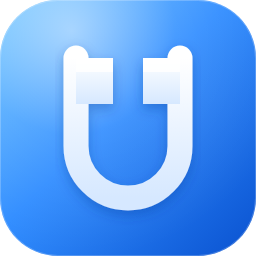
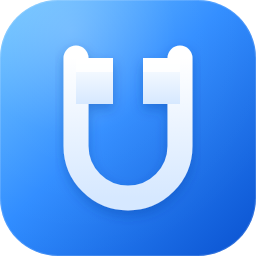
feat: 下载器可选 qbt socket/WebUI，本地下载器设置移至追剧下方
- 新增下载器类型、WebUI 地址/账号/密码、socket 路径配置
- 本地下载器设置移动到追剧任务下方
- 图标降低左上角高光亮度

Changed region(s): [[0.0312, 0.0, 0.6562, 0.4062], [0.0, 0.2188, 0.0312, 0.2812]]

diff --git a/web/src/components/SettingsModals.jsx b/web/src/components/SettingsModals.jsx
@@ -14,6 +14,7 @@ export function SettingsModal(props) {
     pansouUrl, setPansouUrl, bitmagnetUrl, setBitmagnetUrl, outboundProxy, setOutboundProxy,
     maxEpisodes, setMaxEpisodes, taskTimeout, setTaskTimeout, waitTimeout, setWaitTimeout, drivembyEnabled, setDrivembyEnabled,
     localSavePath, setLocalSavePath, localMoveEnabled, setLocalMoveEnabled, localDonePath, setLocalDonePath,
+    localClient, setLocalClient, localQbtUrl, setLocalQbtUrl, localQbtUser, setLocalQbtUser, localQbtPassword, setLocalQbtPassword, localQbtSock, setLocalQbtSock,
     autoForm, setAutoForm, auto, traktToken, setTraktToken, revealTrakt,
     startTraktOauth, traktOauthError,
     aiPresets, newAiPreset, editAiPreset, deleteAiPreset,
@@ -25,16 +26,6 @@ export function SettingsModal(props) {
         <Form.Item label="主题">
           <Segmented value={mode || 'auto'} onChange={setMode}
             options={[{ label: '跟随系统', value: 'auto' }, { label: '亮色', value: 'light' }, { label: '暗色', value: 'dark' }]} />
-        </Form.Item>
-        <Divider orientation="left" style={{ margin: '0 0 12px' }}>本地下载器</Divider>
-        <Form.Item label="保存目录">
-          <Input value={localSavePath} onChange={e => setLocalSavePath(e.target.value)} placeholder="/vol1/1000/Downloads" />
-        </Form.Item>
-        <Form.Item label="完成后移动到目标目录">
-          <Switch checked={localMoveEnabled} onChange={setLocalMoveEnabled} />
-        </Form.Item>
-        <Form.Item label="移动目标目录">
-          <Input value={localDonePath} onChange={e => setLocalDonePath(e.target.value)} disabled={!localMoveEnabled} placeholder="/vol1/1000/Downloads/Done" />
         </Form.Item>
         <Divider orientation="left" style={{ margin: '0 0 12px' }}>115 账号</Divider>
         <Form.Item label="115 Cookie">
@@ -112,6 +103,31 @@ export function SettingsModal(props) {
         </Form.Item>
         <Form.Item label="转存完成后自动触发 Drivemby 刷新">
           <Switch checked={drivembyEnabled} onChange={setDrivembyEnabled} />
+        </Form.Item>
+        <Divider orientation="left" style={{ margin: '4px 0 12px' }}>本地下载器</Divider>
+        <Form.Item label="使用哪个下载器">
+          <Select value={localClient} onChange={setLocalClient} options={[
+            { value: 'qbt_local', label: 'fnOS 下载中心（qBittorrent unix socket）' },
+            { value: 'qbt_webui', label: 'qBittorrent WebUI（TCP）' },
+          ]} />
+        </Form.Item>
+        {localClient === 'qbt_webui' ? (
+          <>
+            <Form.Item label="WebUI 地址"><Input value={localQbtUrl} onChange={e => setLocalQbtUrl(e.target.value)} placeholder="http://127.0.0.1:8080" /></Form.Item>
+            <Form.Item label="用户名"><Input value={localQbtUser} onChange={e => setLocalQbtUser(e.target.value)} /></Form.Item>
+            <Form.Item label="密码"><Input.Password value={localQbtPassword} onChange={e => setLocalQbtPassword(e.target.value)} placeholder="qBittorrent WebUI 密码" /></Form.Item>
+          </>
+        ) : (
+          <Form.Item label="qBittorrent socket 路径"><Input value={localQbtSock} onChange={e => setLocalQbtSock(e.target.value)} placeholder="/run/qbt.sock" /></Form.Item>
+        )}
+        <Form.Item label="保存目录">
+          <Input value={localSavePath} onChange={e => setLocalSavePath(e.target.value)} placeholder="/vol1/1000/Downloads" />
+        </Form.Item>
+        <Form.Item label="完成后移动到目标目录">
+          <Switch checked={localMoveEnabled} onChange={setLocalMoveEnabled} />
+        </Form.Item>
+        <Form.Item label="移动目标目录">
+          <Input value={localDonePath} onChange={e => setLocalDonePath(e.target.value)} disabled={!localMoveEnabled} placeholder="/vol1/1000/Downloads/Done" />
         </Form.Item>
 
         <Divider orientation="left" style={{ margin: '4px 0 12px' }}>Trakt 凭据</Divider>

diff --git a/web/src/App.jsx b/web/src/App.jsx
@@ -131,6 +131,11 @@ export default function App({ mode, setMode, dark }) {
   const [localSavePath, setLocalSavePath] = useState('/vol1/1000/Downloads');
   const [localMoveEnabled, setLocalMoveEnabled] = useState(true);
   const [localDonePath, setLocalDonePath] = useState('/vol1/1000/Downloads/Done');
+  const [localClient, setLocalClient] = useState('qbt_local');
+  const [localQbtUrl, setLocalQbtUrl] = useState('http://127.0.0.1:8080');
+  const [localQbtUser, setLocalQbtUser] = useState('admin');
+  const [localQbtPassword, setLocalQbtPassword] = useState('');
+  const [localQbtSock, setLocalQbtSock] = useState('/run/qbt.sock');
   const [accUser, setAccUser] = useState('');
   const [accOld, setAccOld] = useState('');
   const [accNew, setAccNew] = useState('');
@@ -440,7 +445,12 @@ export default function App({ mode, setMode, dark }) {
     if (cfg.local_save_path !== undefined) setLocalSavePath(cfg.local_save_path || '');
     setLocalMoveEnabled(cfg.local_move_enabled !== false);
     if (cfg.local_done_path !== undefined) setLocalDonePath(cfg.local_done_path || '');
-  }, [cfg?.local_save_path, cfg?.local_move_enabled, cfg?.local_done_path]);
+    if (cfg.local_client) setLocalClient(cfg.local_client);
+    if (cfg.local_qbt_url !== undefined) setLocalQbtUrl(cfg.local_qbt_url || '');
+    if (cfg.local_qbt_user !== undefined) setLocalQbtUser(cfg.local_qbt_user || '');
+    if (cfg.local_qbt_password !== undefined) setLocalQbtPassword(cfg.local_qbt_password || '');
+    if (cfg.local_qbt_sock !== undefined) setLocalQbtSock(cfg.local_qbt_sock || '');
+  }, [cfg?.local_save_path, cfg?.local_move_enabled, cfg?.local_done_path, cfg?.local_client, cfg?.local_qbt_url, cfg?.local_qbt_user, cfg?.local_qbt_password, cfg?.local_qbt_sock]);
 
   // ---- settings helpers ----
   const openSettings = () => {
@@ -462,6 +472,11 @@ export default function App({ mode, setMode, dark }) {
       local_save_path: localSavePath,
       local_move_enabled: localMoveEnabled,
       local_done_path: localDonePath,
+      local_client: localClient,
+      local_qbt_url: localQbtUrl,
+      local_qbt_user: localQbtUser,
+      local_qbt_password: localQbtPassword,
+      local_qbt_sock: localQbtSock,
     };
     if (tmdbText) body.tmdb_api_key = tmdbText;
     if (cookieText) body.p115_cookie = cookieText;
@@ -640,6 +655,11 @@ export default function App({ mode, setMode, dark }) {
               localSavePath={localSavePath} setLocalSavePath={setLocalSavePath}
               localMoveEnabled={localMoveEnabled} setLocalMoveEnabled={setLocalMoveEnabled}
               localDonePath={localDonePath} setLocalDonePath={setLocalDonePath}
+              localClient={localClient} setLocalClient={setLocalClient}
+              localQbtUrl={localQbtUrl} setLocalQbtUrl={setLocalQbtUrl}
+              localQbtUser={localQbtUser} setLocalQbtUser={setLocalQbtUser}
+              localQbtPassword={localQbtPassword} setLocalQbtPassword={setLocalQbtPassword}
+              localQbtSock={localQbtSock} setLocalQbtSock={setLocalQbtSock}
             /></Suspense>
           </div>
         ) : null}
@@ -706,6 +726,11 @@ export default function App({ mode, setMode, dark }) {
           localSavePath={localSavePath} setLocalSavePath={setLocalSavePath}
           localMoveEnabled={localMoveEnabled} setLocalMoveEnabled={setLocalMoveEnabled}
           localDonePath={localDonePath} setLocalDonePath={setLocalDonePath}
+          localClient={localClient} setLocalClient={setLocalClient}
+          localQbtUrl={localQbtUrl} setLocalQbtUrl={setLocalQbtUrl}
+          localQbtUser={localQbtUser} setLocalQbtUser={setLocalQbtUser}
+          localQbtPassword={localQbtPassword} setLocalQbtPassword={setLocalQbtPassword}
+          localQbtSock={localQbtSock} setLocalQbtSock={setLocalQbtSock}
         />
         </Suspense>
       ) : null}

diff --git a/routes.py b/routes.py
@@ -275,7 +275,7 @@ def set_config():
     _merge_secret_list("auto_presets", ("ai_api_key", "trakt_token"))
 
     for k in ("pansou_url", "bitmagnet_url", "outbound_proxy", "p115_target_cid", "p115_transfer_cid",
-              "auto_enabled", "auto_interval", "auto_days", "auto_max_episodes", "auto_strict_match", "auto_task_timeout", "auto_wait_timeout", "auto_use_local", "local_save_path", "local_move_enabled", "local_done_path", "auto_presets", "auto_tv_preset", "auto_movie_preset", "ai_presets", "calendar_source", "auto_shows", "auto_res_order", "auto_rank_order", "auto_seed_tiers", "auto_size_big", "auto_source_order",
+              "auto_enabled", "auto_interval", "auto_days", "auto_max_episodes", "auto_strict_match", "auto_task_timeout", "auto_wait_timeout", "auto_use_local", "local_client", "local_qbt_url", "local_qbt_user", "local_qbt_password", "local_qbt_sock", "local_save_path", "local_move_enabled", "local_done_path", "auto_presets", "auto_tv_preset", "auto_movie_preset", "ai_presets", "calendar_source", "auto_shows", "auto_res_order", "auto_rank_order", "auto_seed_tiers", "auto_size_big", "auto_source_order",
               "auto_max_size_gb", "auto_min_seeders", "auto_codec", "auto_dry_run",
               "ai_enabled", "ai_base_url", "ai_model", "trakt_client_id",
               "tmdb_api_key", "monitor_enabled", "monitor_interval", "monitor_cid",
@@ -503,7 +503,7 @@ def api_ai_test():
 def api_auto_status():
     cfg = load_config()
     pub = {k: cfg.get(k) for k in ("auto_enabled", "auto_interval", "auto_days", "auto_max_episodes",
-                                   "auto_strict_match", "auto_task_timeout", "auto_wait_timeout", "auto_use_local", "local_save_path", "local_move_enabled", "local_done_path", "auto_presets", "auto_tv_preset", "auto_movie_preset",
+                                   "auto_strict_match", "auto_task_timeout", "auto_wait_timeout", "auto_use_local", "local_client", "local_qbt_url", "local_qbt_user", "local_qbt_password", "local_qbt_sock", "local_save_path", "local_move_enabled", "local_done_path", "auto_presets", "auto_tv_preset", "auto_movie_preset",
                                    "ai_presets", "calendar_source", "auto_shows", "auto_res_order",
                                    "auto_max_size_gb", "auto_min_seeders", "auto_codec",
                                    "auto_dry_run", "ai_enabled", "ai_base_url", "ai_model", "trakt_client_id", "drivemby_enabled", "auto_rank_order", "auto_seed_tiers", "auto_size_big", "auto_source_order")}

diff --git a/tracker.py b/tracker.py
@@ -14,18 +14,16 @@ from localtorrent import has_progress, is_completed
 _LOCAL = {"client": None}
 
 
-def _local_client():
-    if _LOCAL["client"] is None:
-        try:
-            c = localtorrent.LocalQbt()
-            _LOCAL["client"] = c if c.login() else False
-        except Exception:
-            _LOCAL["client"] = False
-    return _LOCAL["client"] or None
+def _local_client(cfg=None):
+    try:
+        c = localtorrent.LocalQbt(cfg)
+        return c if c.login() else None
+    except Exception:
+        return None
 
 
-def _local_del(h):
-    c = _local_client()
+def _local_del(h, cfg=None):
+    c = _local_client(cfg)
     if c and h:
         try:
             c.delete([h])
@@ -701,7 +699,7 @@ def _process_episode(cfg, ep, eff, dry_run, excluded, timeout_min):
         return "fail"
     local_hash = None
     if eff.get("auto_use_local"):
-        lc = _local_client()
+        lc = _local_client(cfg)
         if not lc:
             log(f"[auto] {_label(ep)} 本地下载器未就绪，仅使用 115")
         else:
@@ -737,7 +735,7 @@ def _process_episode(cfg, ep, eff, dry_run, excluded, timeout_min):
             _STATE["pending"].pop(ep["key"], None)
             _save()
         log(f"[auto] {_label(ep)} 云下载完成（已确认）: {desc}")
-        _local_del(local_hash)
+        _local_del(local_hash, cfg)
         _notify_drivemby(cfg, ep, (task or {}).get("file_id"))
         return "done"
     if h and task:
@@ -789,7 +787,7 @@ def run_once(cfg, dry_run=False, only_shows=None):
         local_delete_after = []
         local_hashes = [v.get("local_hash") for v in (_STATE.get("pending") or {}).values() if v.get("local_hash")]
         local_map = {}
-        lc = _local_client() if local_hashes else None
+        lc = _local_client(cfg) if local_hashes else None
         if lc and local_hashes:
             try:
                 local_map = lc.torrents(local_hashes)
@@ -906,7 +904,7 @@ def run_once(cfg, dry_run=False, only_shows=None):
                 except Exception:
                     pass
         for lh in local_delete_after:
-            _local_del(lh)
+            _local_del(lh, cfg)
         for nep, nfid in notify_after:
             _notify_drivemby(cfg, nep, nfid)
         for ep, tried in retry_eps:

diff --git a/localtorrent.py b/localtorrent.py
@@ -3,6 +3,7 @@
 import os
 import urllib.parse
 
+import requests
 import requests_unixsocket
 
 SOCK = "/run/qbt.sock"
@@ -11,19 +12,31 @@ USER = "admin"
 
 
 class LocalQbt:
-    def __init__(self):
-        self.session = requests_unixsocket.Session()
-        self.base = "http+unix://" + urllib.parse.quote(SOCK, safe="")
+    def __init__(self, cfg=None):
+        cfg = cfg or {}
+        self.mode = cfg.get("local_client") or "qbt_local"
         self.ok = False
+        if self.mode == "qbt_webui":
+            self.session = requests.Session()
+            self.base = (cfg.get("local_qbt_url") or "http://127.0.0.1:8080").rstrip("/")
+            self.user = cfg.get("local_qbt_user") or USER
+            self.password = cfg.get("local_qbt_password") or ""
+        else:
+            self.session = requests_unixsocket.Session()
+            sock = cfg.get("local_qbt_sock") or SOCK
+            self.base = "http+unix://" + urllib.parse.quote(sock, safe="")
+            self.user = USER
+            self.password = None
 
     def login(self):
-        try:
-            pw = open(PW_FILE, encoding="utf-8").read().strip()
-        except Exception:
-            return False
+        if self.mode != "qbt_webui":
+            try:
+                self.password = open(PW_FILE, encoding="utf-8").read().strip()
+            except Exception:
+                return False
         try:
             r = self.session.post(self.base + "/api/v2/auth/login",
-                                  data={"username": USER, "password": pw}, timeout=10)
+                                  data={"username": self.user, "password": self.password}, timeout=10)
             self.ok = r.status_code == 200 and r.text.strip() == "Ok."
         except Exception:
             self.ok = False
@@ -104,7 +117,7 @@ def move_completed(cfg):
     done = (cfg.get("local_done_path") or "").strip()
     if not done:
         return 0
-    q = LocalQbt()
+    q = LocalQbt(cfg)
     if not q.login():
         return 0
     moved = 0

diff --git a/config.py b/config.py
@@ -32,6 +32,11 @@ DEFAULT_CONFIG = {
     "auto_task_timeout": 10,
     "auto_wait_timeout": 3,
     "auto_use_local": False,
+    "local_client": "qbt_local",
+    "local_qbt_url": "http://127.0.0.1:8080",
+    "local_qbt_user": "admin",
+    "local_qbt_password": "",
+    "local_qbt_sock": "/run/qbt.sock",
     "local_save_path": "/vol1/1000/Downloads",
     "local_move_enabled": True,
     "local_done_path": "/vol1/1000/Downloads/Done",
